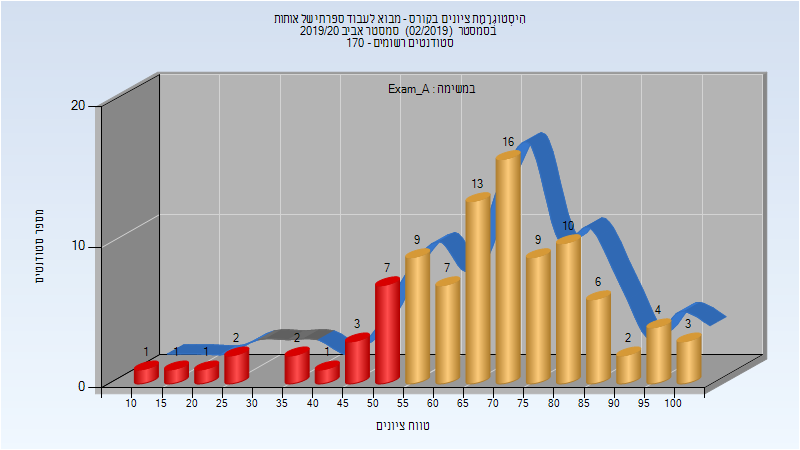
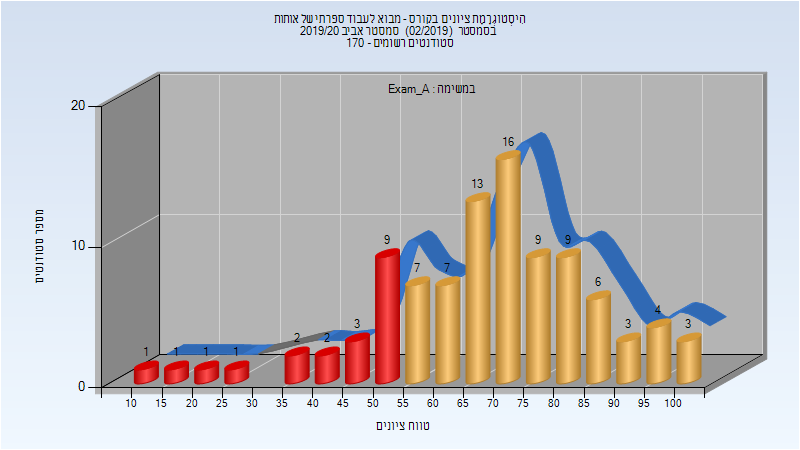
Deploy michael-maltsev/technion-histograms to github.com/michael-maltsev/technion-histograms.git:gh-pages

diff --git a/044202/index.html b/044202/index.html
@@ -1427,5 +1427,57 @@
 </tr>
 </tbody>
 </table>
+<h3>מבחן מועד א'</h3>
+<p><img src="201902/Exam_A.png" alt="201902 Exam_A" /></p>
+<table>
+<thead>
+<tr>
+<th>סטודנטים</th>
+<th>עברו/נכשלו</th>
+<th>אחוז עוברים</th>
+<th>ציון מינימלי</th>
+<th>ציון מקסימלי</th>
+<th>ממוצע</th>
+<th>חציון</th>
+</tr>
+</thead>
+<tbody>
+<tr>
+<td>121</td>
+<td>73/48</td>
+<td>60</td>
+<td>11</td>
+<td>93.5</td>
+<td>58.036</td>
+<td>59</td>
+</tr>
+</tbody>
+</table>
+<h3>סופי מועד א'</h3>
+<p><img src="201902/Final_A.png" alt="201902 Final_A" /></p>
+<table>
+<thead>
+<tr>
+<th>סטודנטים</th>
+<th>עברו/נכשלו</th>
+<th>אחוז עוברים</th>
+<th>ציון מינימלי</th>
+<th>ציון מקסימלי</th>
+<th>ממוצע</th>
+<th>חציון</th>
+</tr>
+</thead>
+<tbody>
+<tr>
+<td>121</td>
+<td>92/29</td>
+<td>76</td>
+<td>14</td>
+<td>99</td>
+<td>66.43</td>
+<td>67</td>
+</tr>
+</tbody>
+</table>
   </body>
 </html>

diff --git a/044198/index.html b/044198/index.html
@@ -1361,11 +1361,11 @@
 <tbody>
 <tr>
 <td>97</td>
-<td>79/18</td>
-<td>81</td>
+<td>77/20</td>
+<td>79</td>
 <td>14</td>
 <td>100</td>
-<td>68.052</td>
+<td>68.258</td>
 <td>70</td>
 </tr>
 </tbody>
@@ -1391,7 +1391,33 @@
 <td>90</td>
 <td>27</td>
 <td>100</td>
-<td>73.134</td>
+<td>73.34</td>
+<td>74</td>
+</tr>
+</tbody>
+</table>
+<h3>סופי</h3>
+<p><img src="201902/Finals.png" alt="201902 Finals" /></p>
+<table>
+<thead>
+<tr>
+<th>סטודנטים</th>
+<th>עברו/נכשלו</th>
+<th>אחוז עוברים</th>
+<th>ציון מינימלי</th>
+<th>ציון מקסימלי</th>
+<th>ממוצע</th>
+<th>חציון</th>
+</tr>
+</thead>
+<tbody>
+<tr>
+<td>97</td>
+<td>87/10</td>
+<td>90</td>
+<td>27</td>
+<td>100</td>
+<td>73.34</td>
 <td>74</td>
 </tr>
 </tbody>

diff --git a/044198/README.md b/044198/README.md
@@ -423,7 +423,7 @@
 
 | סטודנטים | עברו/נכשלו | אחוז עוברים | ציון מינימלי | ציון מקסימלי | ממוצע | חציון |
 | ---- | ---- | ---- | ---- | ---- | ---- | ---- |
-| 97 | 79/18 | 81 | 14 | 100 | 68.052 | 70 |
+| 97 | 77/20 | 79 | 14 | 100 | 68.258 | 70 |
 
 ### סופי מועד א'
 
@@ -431,5 +431,13 @@
 
 | סטודנטים | עברו/נכשלו | אחוז עוברים | ציון מינימלי | ציון מקסימלי | ממוצע | חציון |
 | ---- | ---- | ---- | ---- | ---- | ---- | ---- |
-| 97 | 87/10 | 90 | 27 | 100 | 73.134 | 74 |
+| 97 | 87/10 | 90 | 27 | 100 | 73.34 | 74 |
+
+### סופי
+
+![201902 Finals](201902/Finals.png)
+
+| סטודנטים | עברו/נכשלו | אחוז עוברים | ציון מינימלי | ציון מקסימלי | ממוצע | חציון |
+| ---- | ---- | ---- | ---- | ---- | ---- | ---- |
+| 97 | 87/10 | 90 | 27 | 100 | 73.34 | 74 |
 

diff --git a/044202/README.md b/044202/README.md
@@ -443,3 +443,19 @@
 | זיסלמן אב | מתרגל - עם הרשאות מרצה אחראי |
 | מולאיוף רותם | מתרגל - עם הרשאות מרצה אחראי |
 
+### מבחן מועד א'
+
+![201902 Exam_A](201902/Exam_A.png)
+
+| סטודנטים | עברו/נכשלו | אחוז עוברים | ציון מינימלי | ציון מקסימלי | ממוצע | חציון |
+| ---- | ---- | ---- | ---- | ---- | ---- | ---- |
+| 121 | 73/48 | 60 | 11 | 93.5 | 58.036 | 59 |
+
+### סופי מועד א'
+
+![201902 Final_A](201902/Final_A.png)
+
+| סטודנטים | עברו/נכשלו | אחוז עוברים | ציון מינימלי | ציון מקסימלי | ממוצע | חציון |
+| ---- | ---- | ---- | ---- | ---- | ---- | ---- |
+| 121 | 92/29 | 76 | 14 | 99 | 66.43 | 67 |
+
